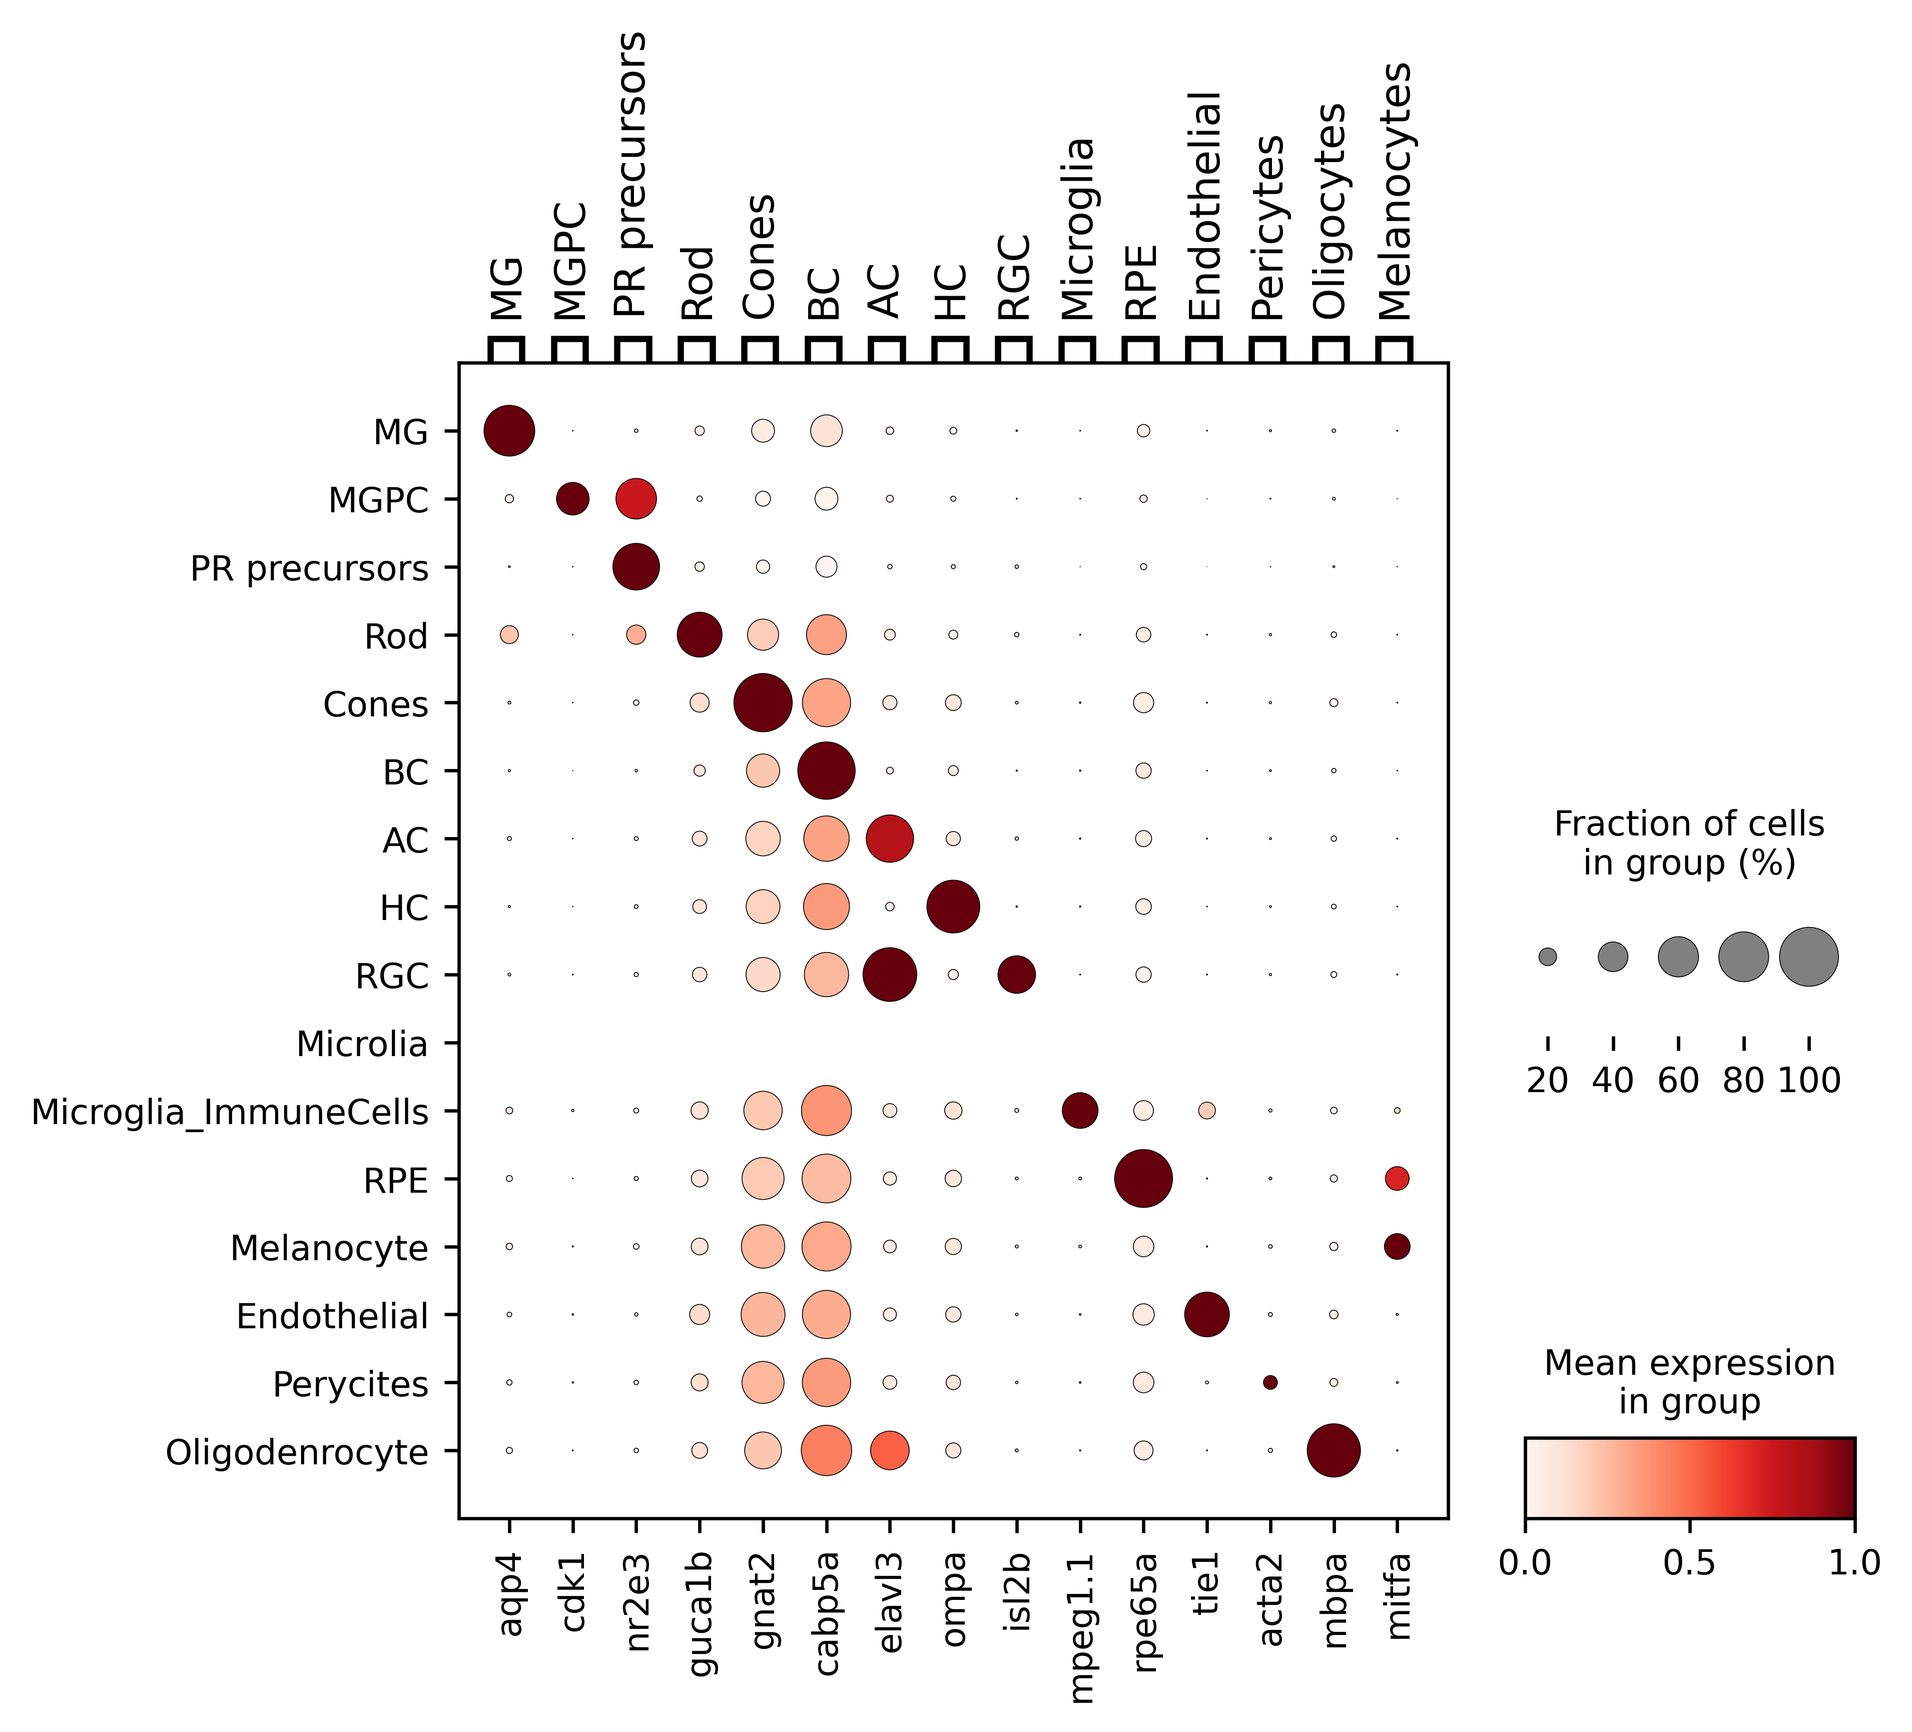
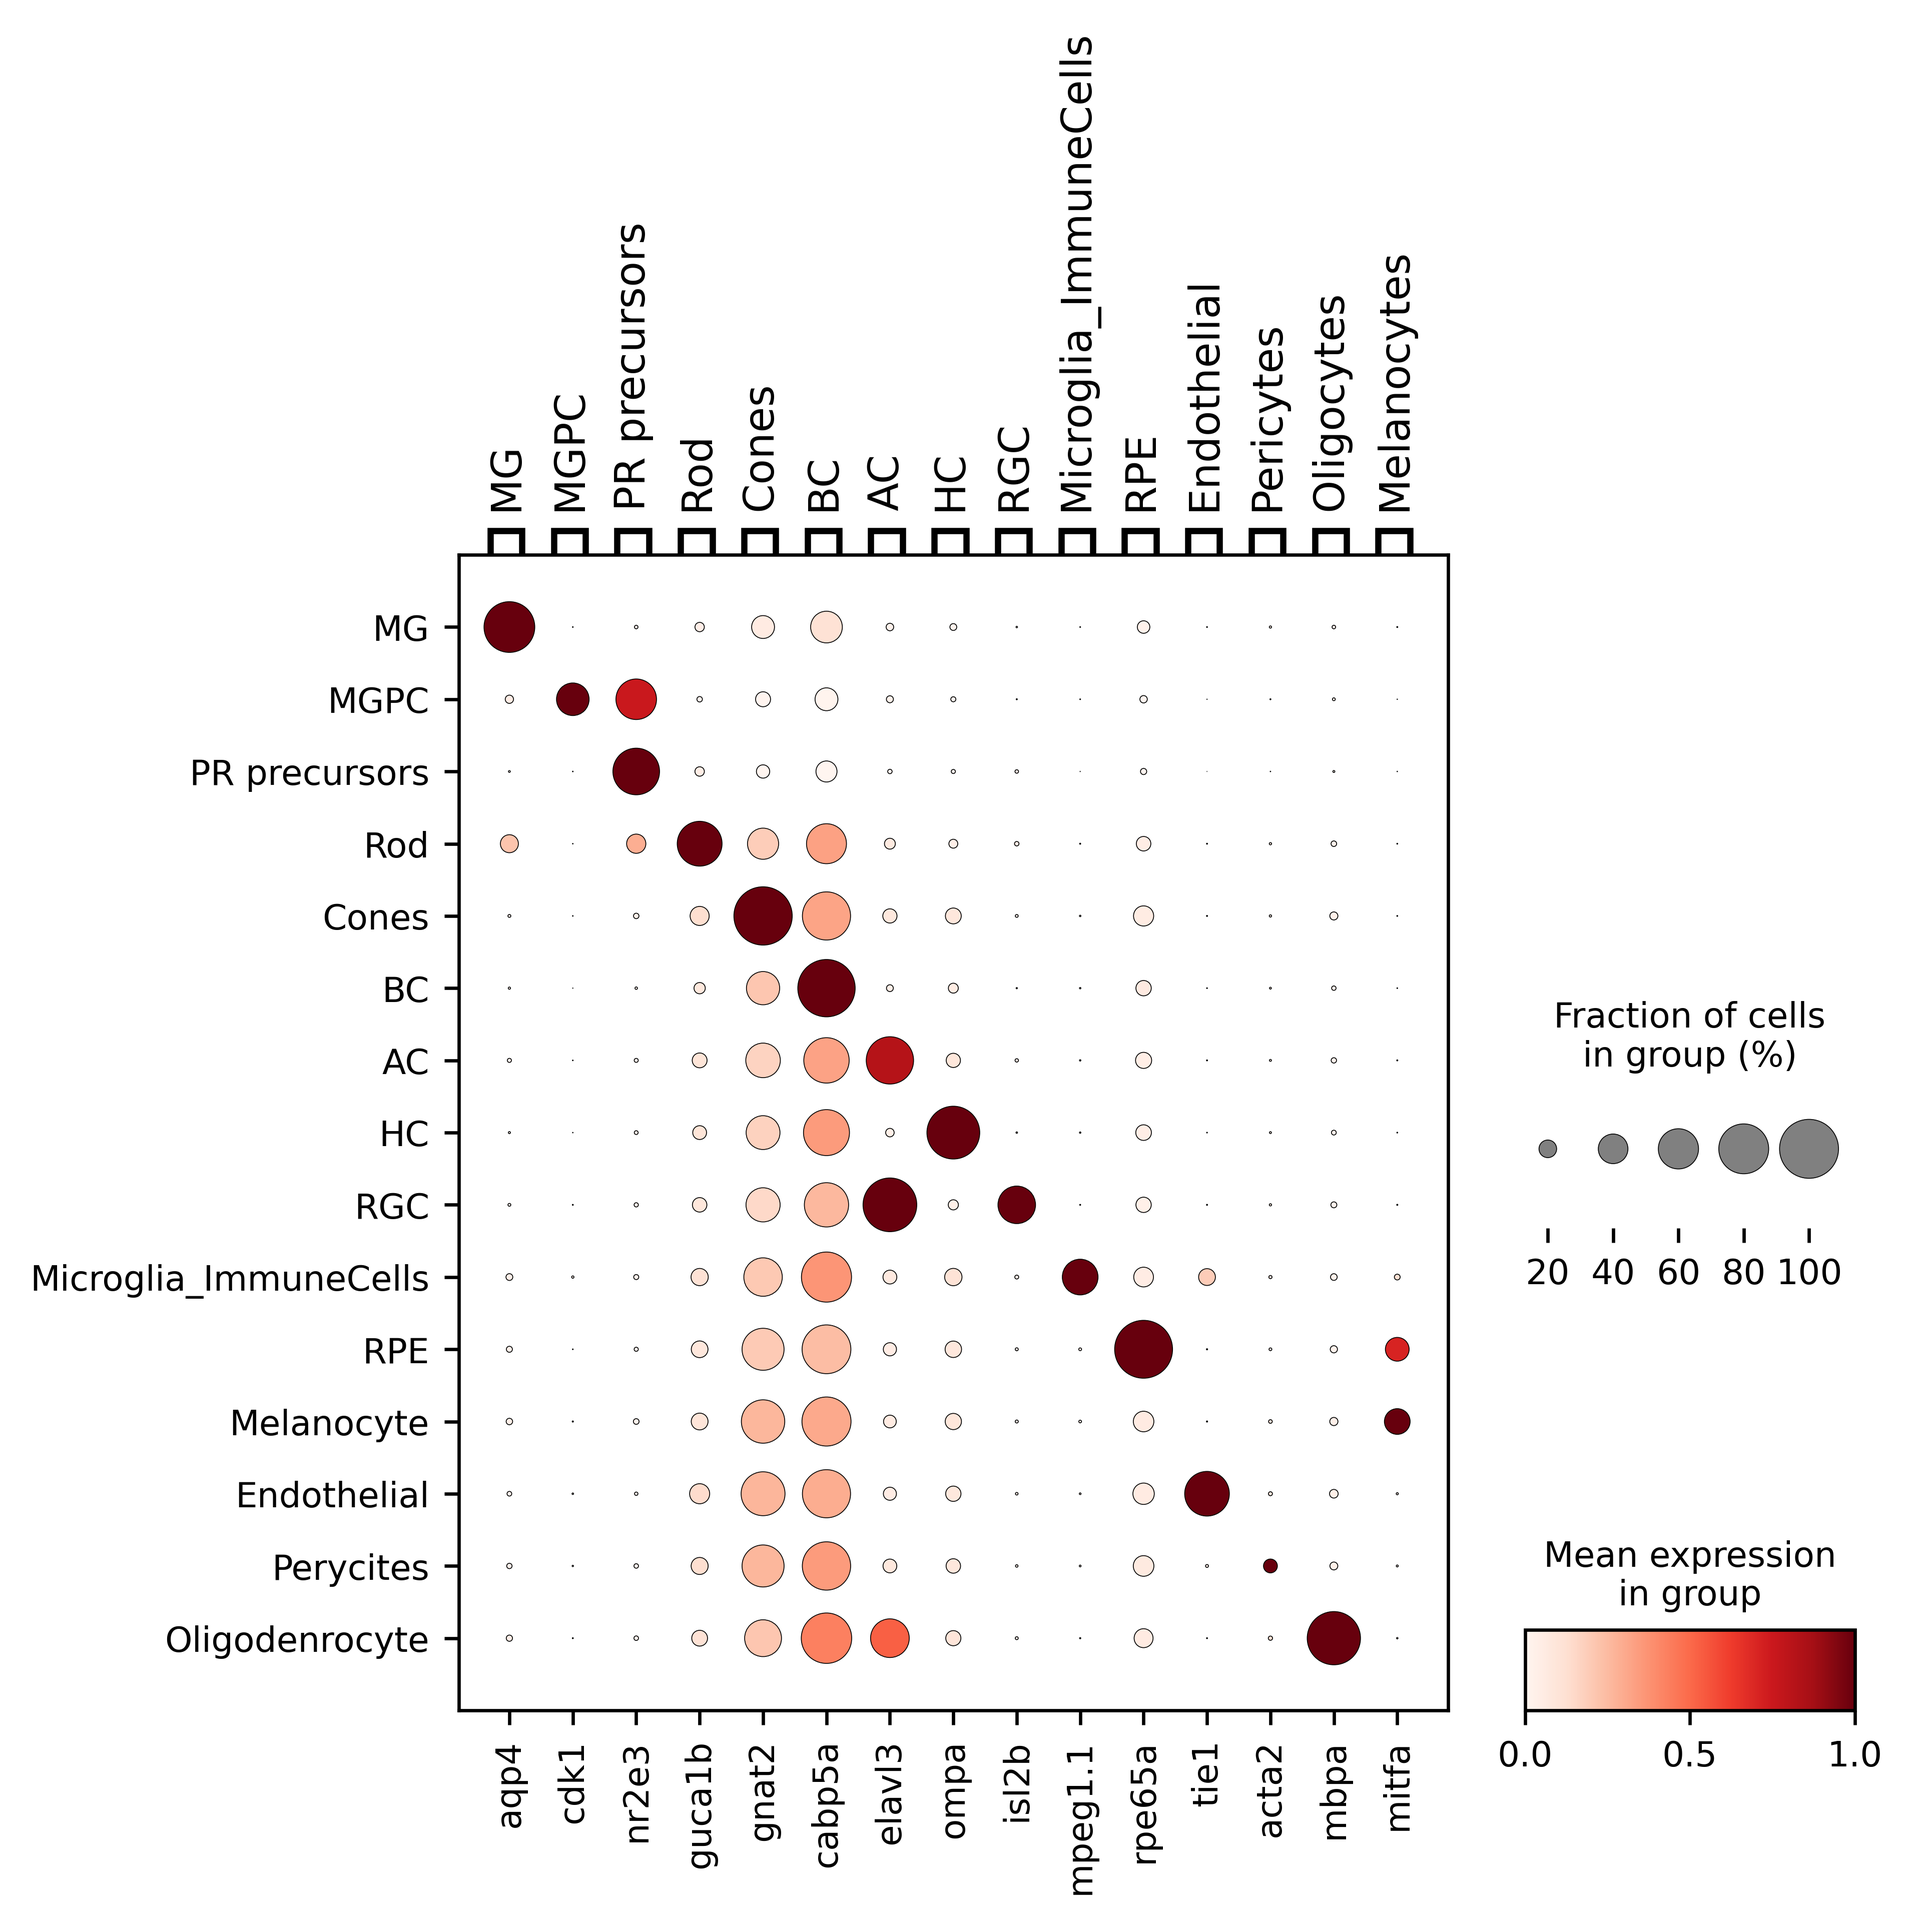
fix dotplot figure

diff --git a/stats.py b/stats.py
@@ -34,3 +34,50 @@ print("Number of cells per renamed_samples group:")
 print(cell_counts)
 
 
+
+marker_genes = {
+"MG":	["aqp4"],
+"MGPC":	["cdk1"],
+"PR precursors": ["nr2e3"],
+"Rod": ["guca1b"],
+"Cones": ["gnat2"],
+"BC":	["cabp5a"],
+"AC": ["elavl3"],
+"HC": 	["ompa"],
+"RGC":	["isl2b"],
+"Microglia_ImmuneCells": ["mpeg1.1"],
+"RPE": 	["rpe65a"],
+"Endothelial": ["tie1"],
+"Pericytes": ["acta2"],
+"Oligocytes": ["mbpa"],
+"Melanocytes": ["mitfa"]
+}
+celltype_order = ['MG', 'MGPC', 'PR precursors', 'Rod', 'Cones', 'BC', 'AC', 'HC', 'RGC','Microglia_ImmuneCells','RPE', 'Melanocyte','Endothelial','Perycites','Oligodenrocyte']
+adata.obs['celltype'] = pd.Categorical(adata.obs['celltype'], categories=celltype_order, ordered=True)
+
+
+figure_name = f"figures/dotplot_{base_name}_markerGenes.png"
+fig = sc.pl.dotplot(
+    adata,
+    marker_genes,
+    groupby="celltype",
+    categories_order = celltype_order,
+    standard_scale="var",
+    figsize=(6,5),
+    dot_max=1.0, dendrogram=False, show =False,return_fig=True)
+
+fig.savefig(figure_name, dpi=600,bbox_inches="tight")
+
+
+'''sc.pl.dotplot(
+    adata,
+    marker_genes,
+    groupby="celltype",
+    categories_order=celltype_order,
+    standard_scale="var",
+    dot_max=1.0,
+    dendrogram=False,
+    show=False,
+    save=figure_name  # Save in the default figure directory
+)
+'''
